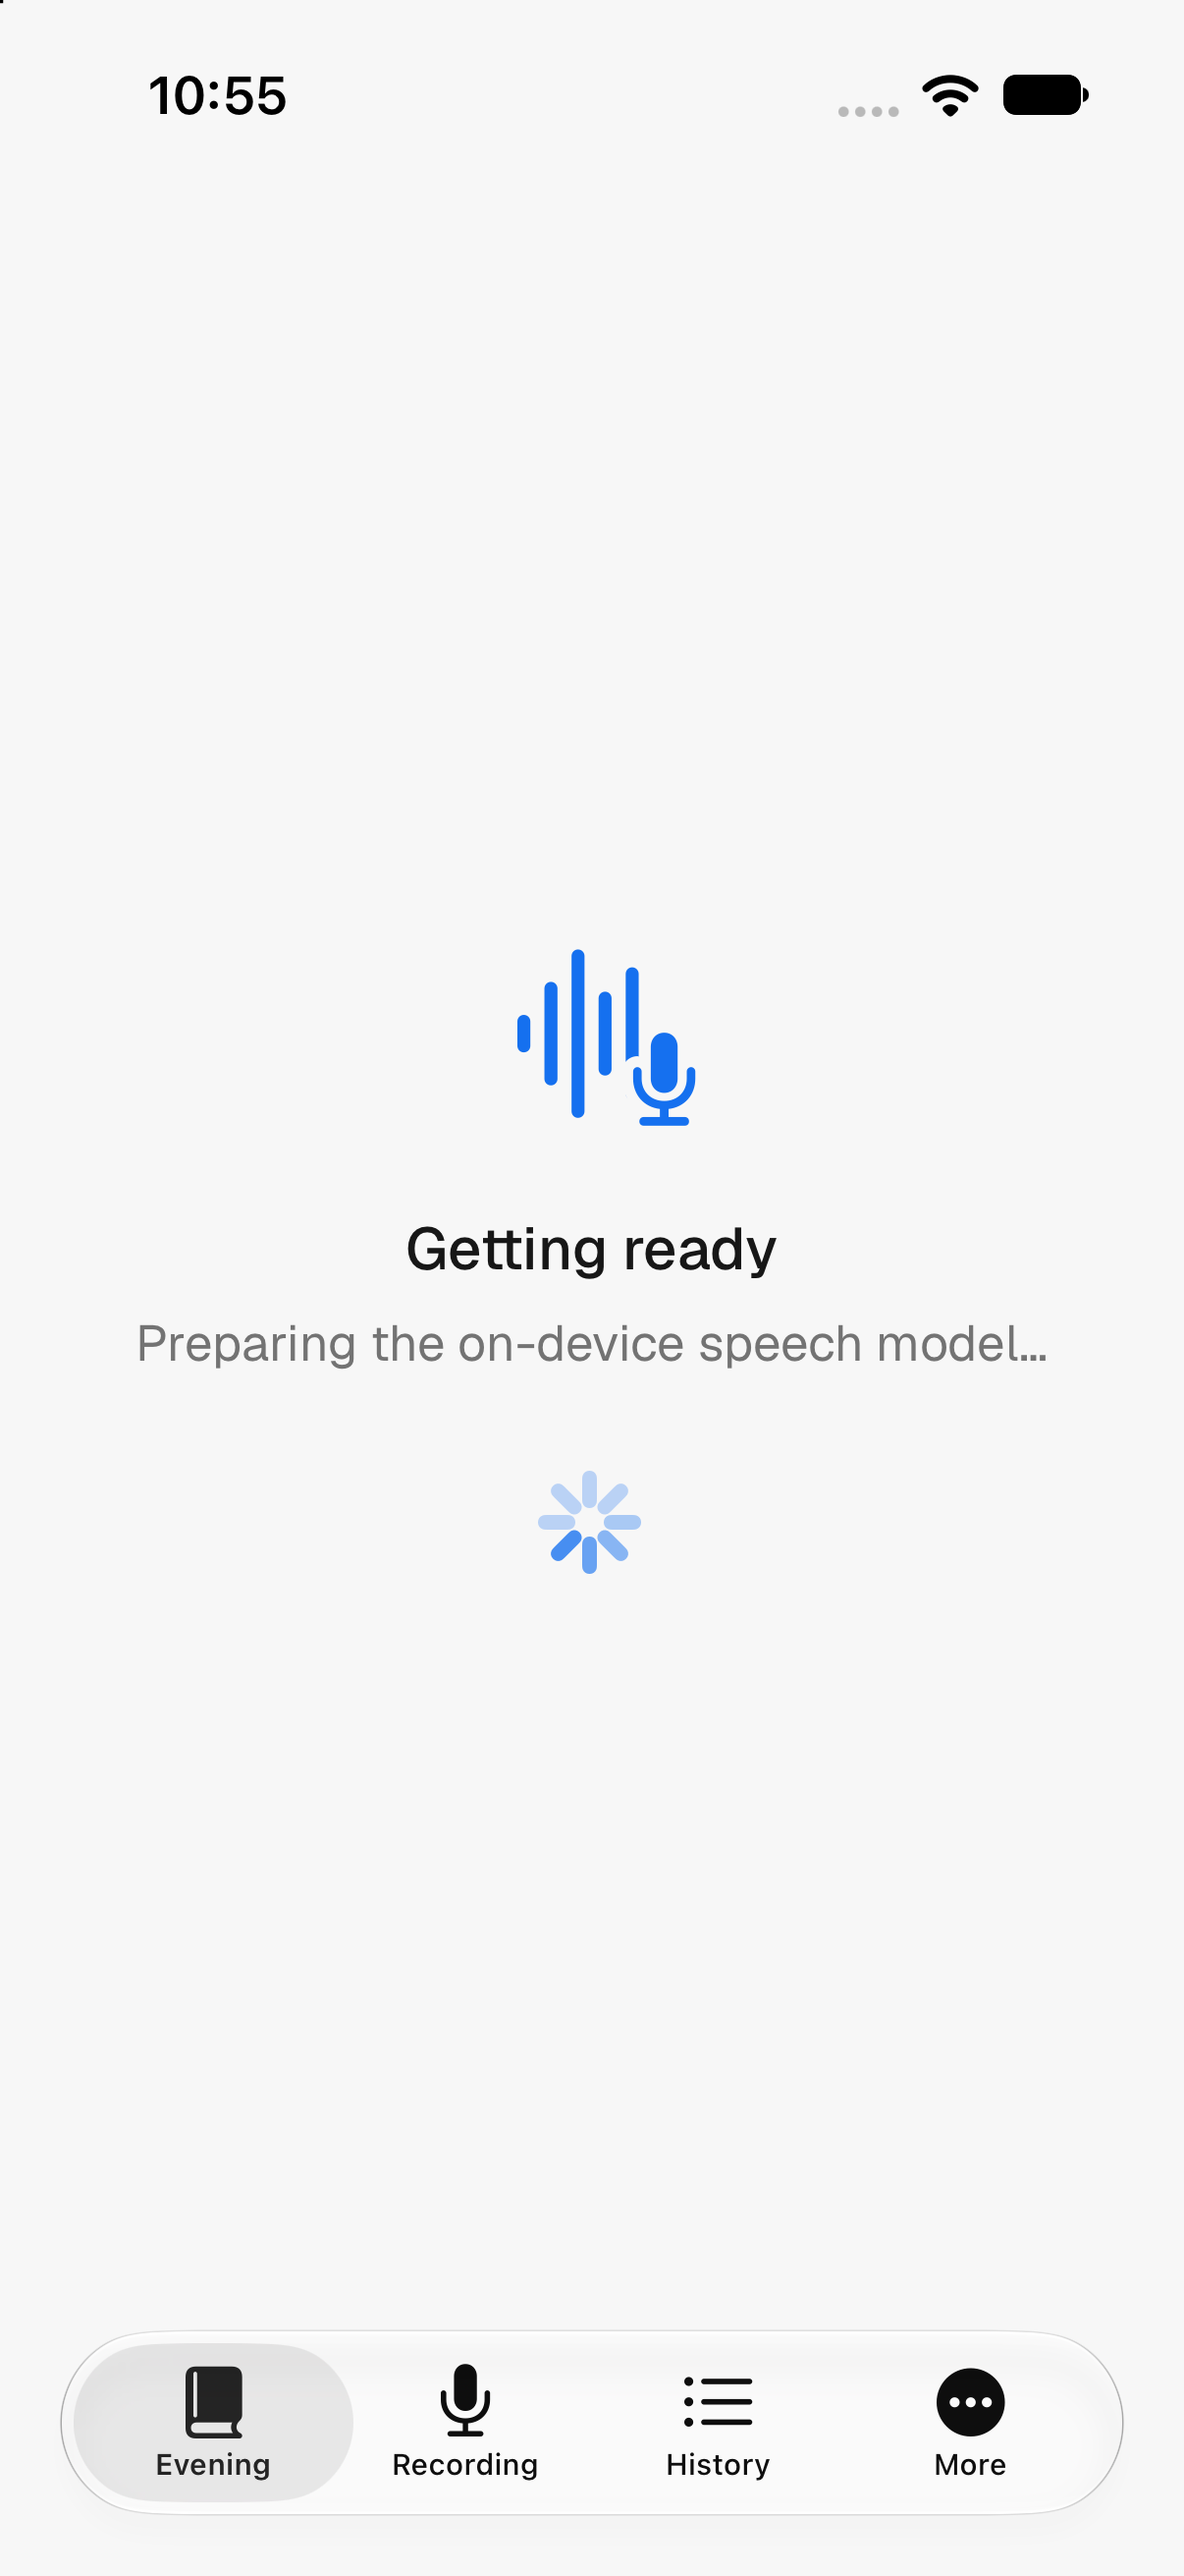
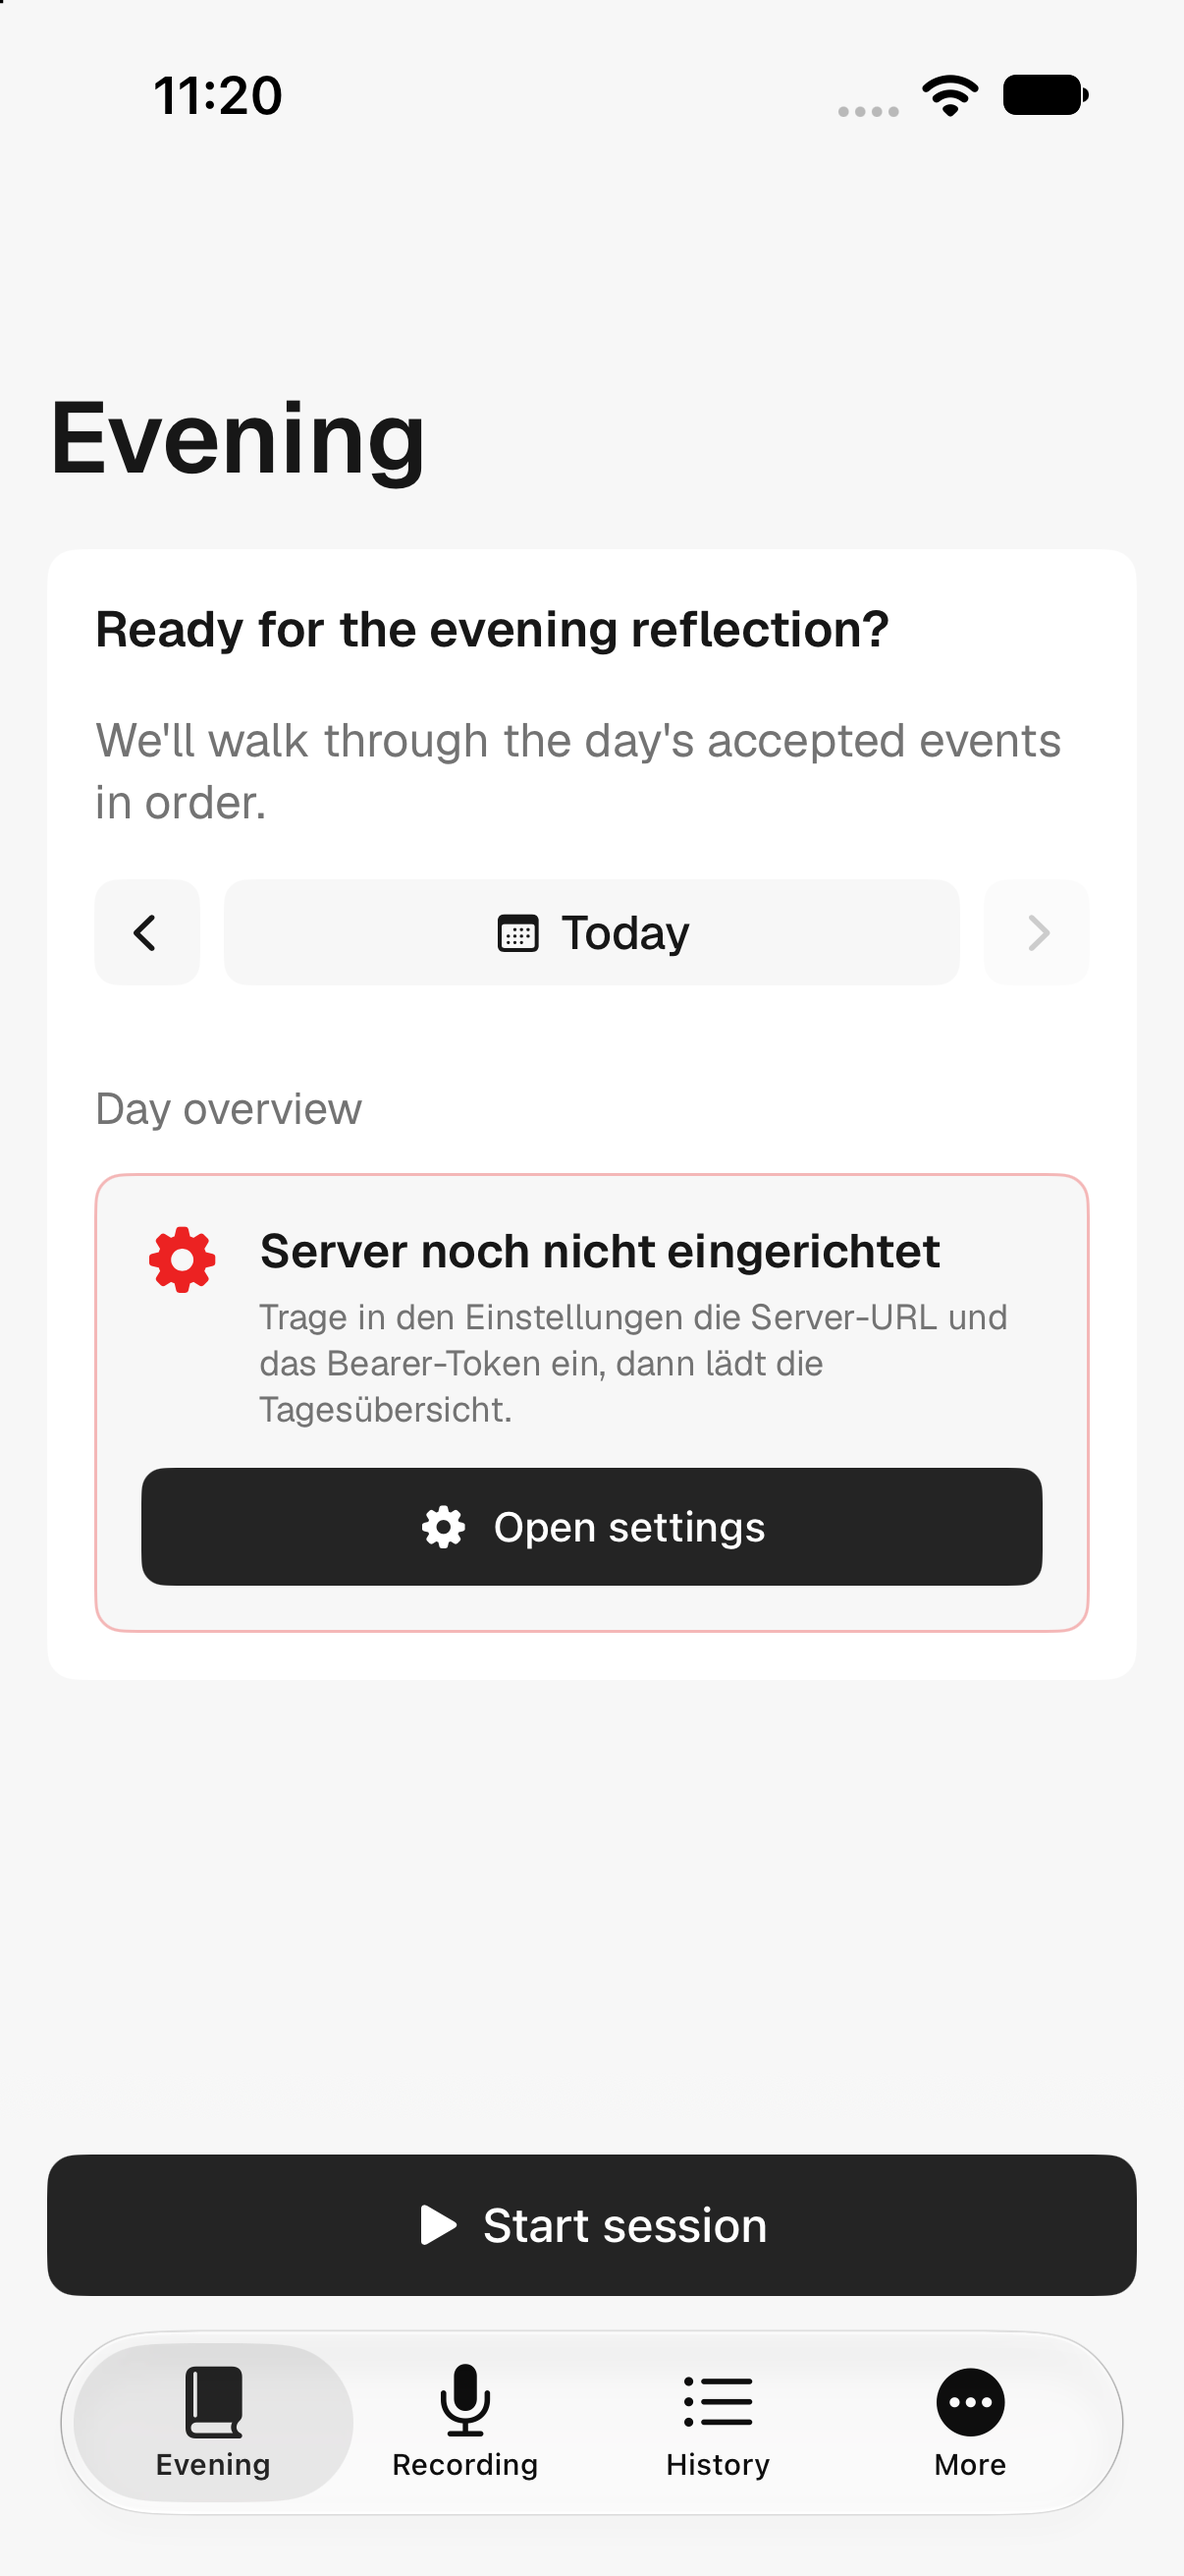
UX-6a: proof screenshots

diff --git a/docs/screenshots/UX-6a/README.md b/docs/screenshots/UX-6a/README.md
@@ -1,0 +1,13 @@
+# UX-6a proof screenshots
+
+Real-app captures from a throwaway iPhone 17 simulator (iOS 27.0), light and dark, full size.
+Each state has a `-light` and a `-dark` file.
+
+| File | Shows |
+|---|---|
+| `01-first-launch-server-no-prompt-*` | Fresh install, first frame: the Server step with no system alert over it. |
+| `02-permissions-priming-*` | The Permissions screen after server setup: Microphone, Speech recognition and Notifications cards, no system alert yet. |
+| `03-after-continue-prompt-*` | After tapping Continue on the Permissions screen: the first system prompt (microphone), the spinner on the button. Speech recognition and notifications follow it. |
+| `04-after-onboarding-evening-*` | After the last prompt is answered: the Evening tab. It shows "Server noch nicht eingerichtet" because the tab loaded behind the first-run cover, before the server was saved. |
+| `05-relaunch-returning-user-*` | Relaunch of the same install: opens straight on the Evening tab with the day's events loaded and no onboarding or system alert. |
+| `06-reinstall-keychain-priming-only-*` | Uninstall and reinstall with the Keychain kept (server already set up): the Permissions screen alone, with no Server step and no system alert. |
